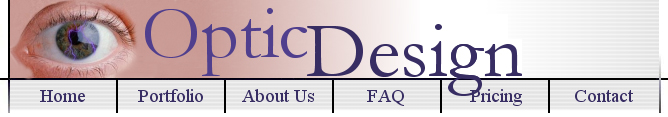
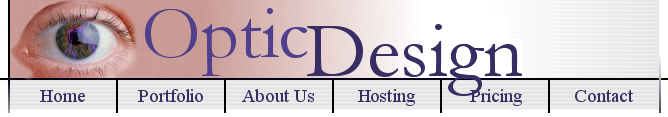
Update the portfolio and link to a Hosting page instead of FAQ.

Changed region(s): [[0.5389, 0.7692, 0.6287, 0.9231]]

diff --git a/style.css b/style.css
@@ -26,9 +26,6 @@ a:active { color: #8866BB;
 	font-family: arial, "sans serif", serif; 
         font-size: 10pt; }
 	     
+.imgmap { border-width: 0; }
+
 .alignleft { text-align: left; }
-
-.headernav { border: 0;
-	     width: 688px;
-	     height: 117px; }
-
